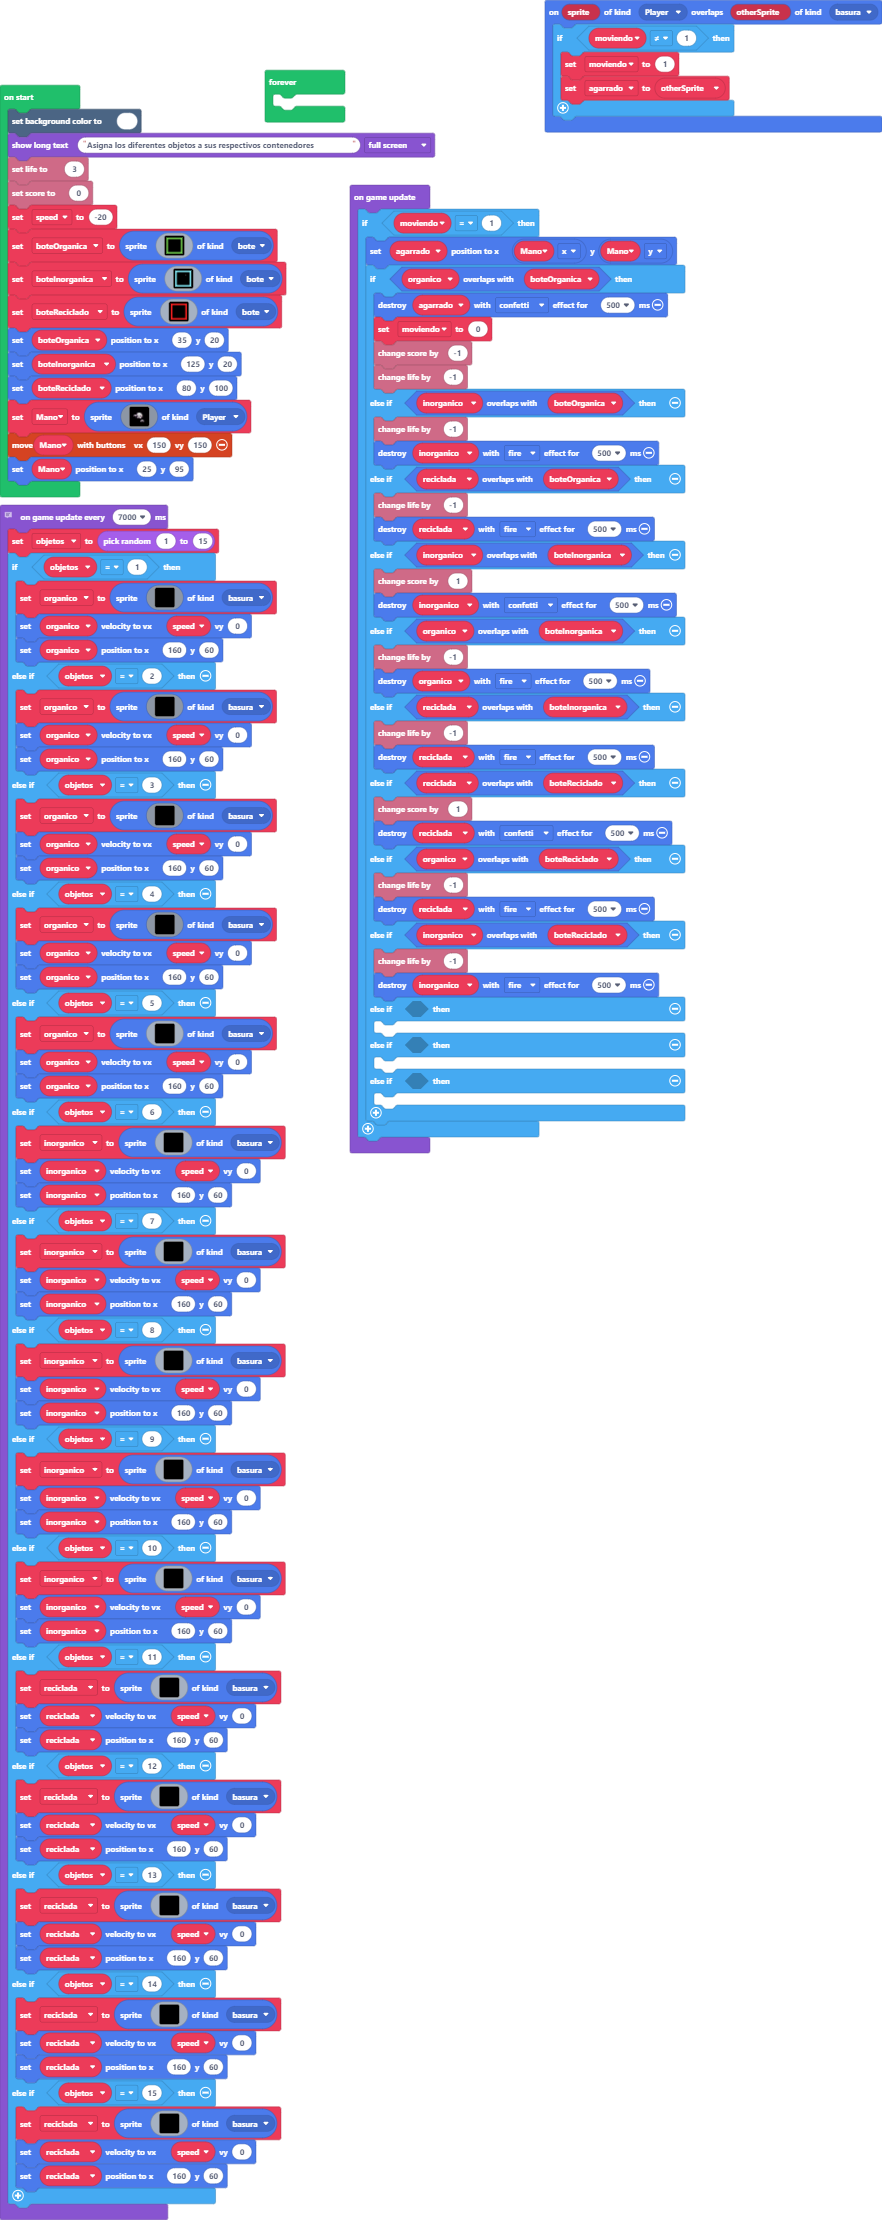
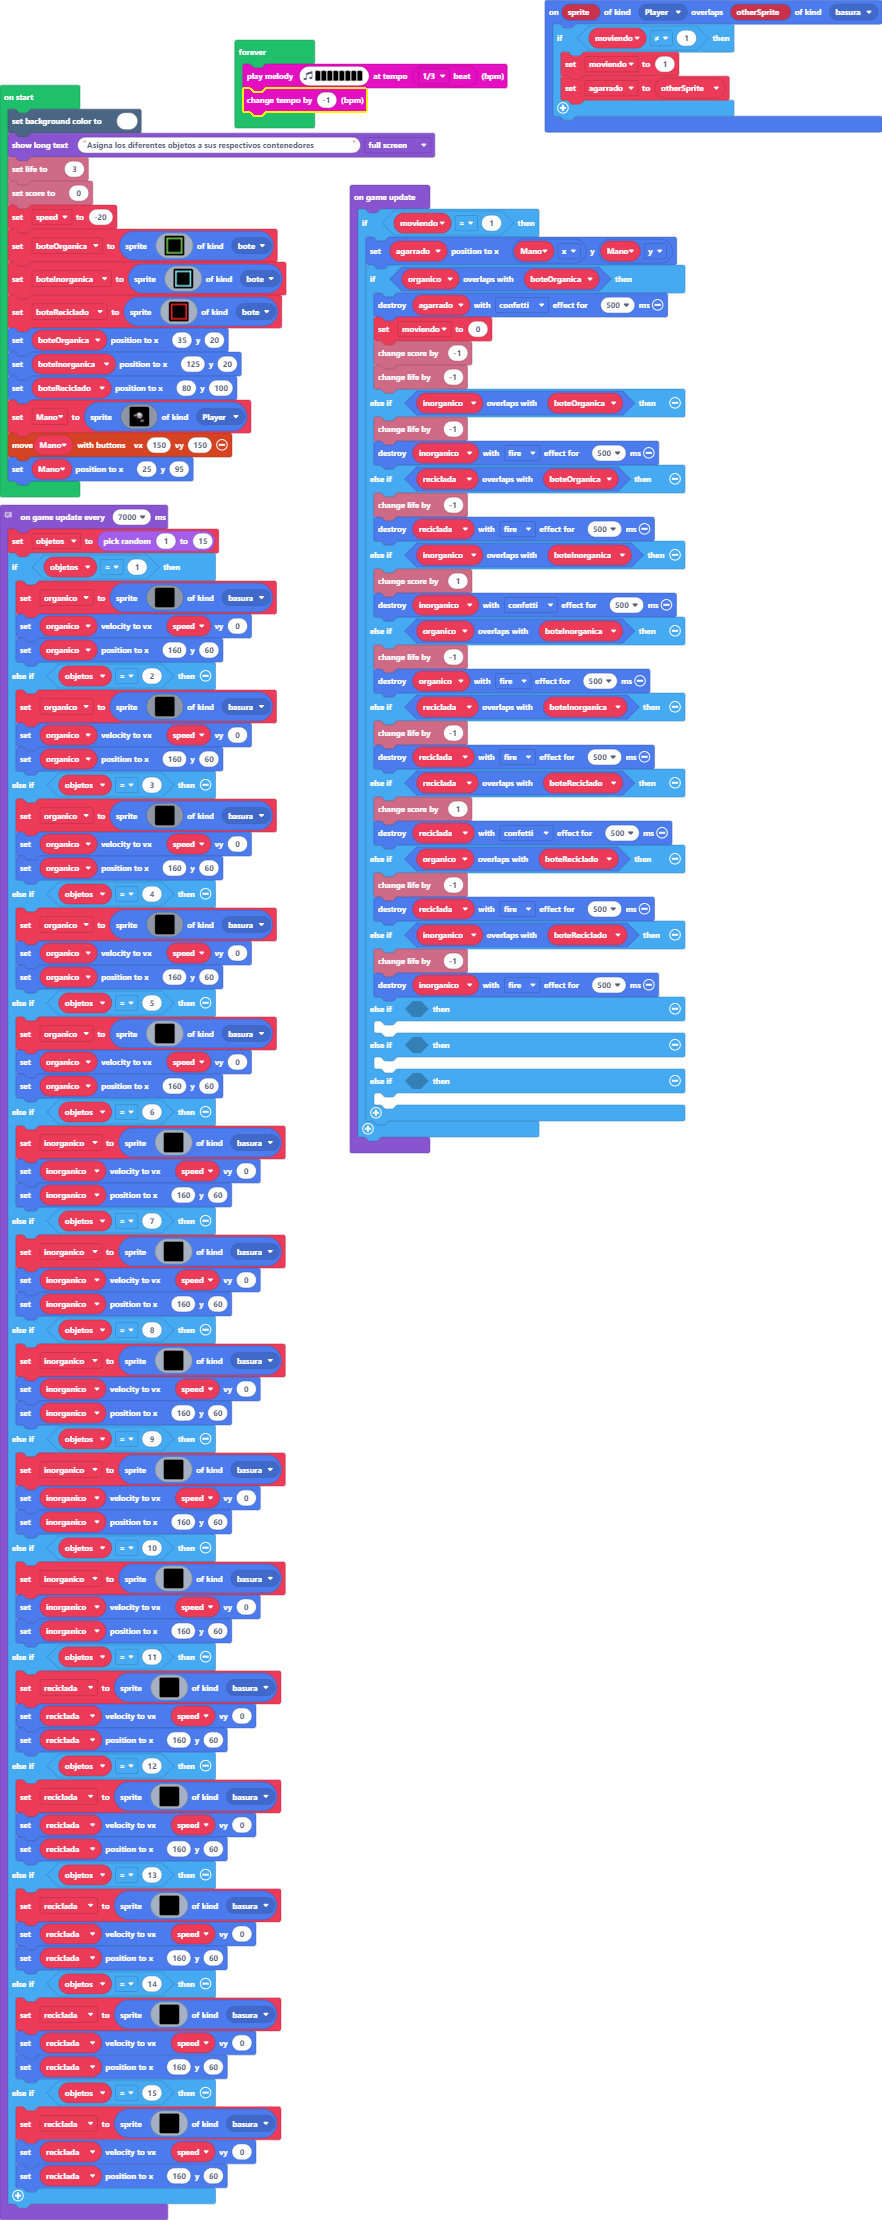
Sound

Changed region(s): [[0.2449, 0.0, 0.5816, 0.0622]]

diff --git a/main.ts b/main.ts
@@ -1258,5 +1258,6 @@ game.onUpdateInterval(7000, function () {
     }
 })
 forever(function () {
-	
+    music.playMelody("G B A G C5 B A B ", music.beat(BeatFraction.Triplet))
+    music.changeTempoBy(-1)
 })
